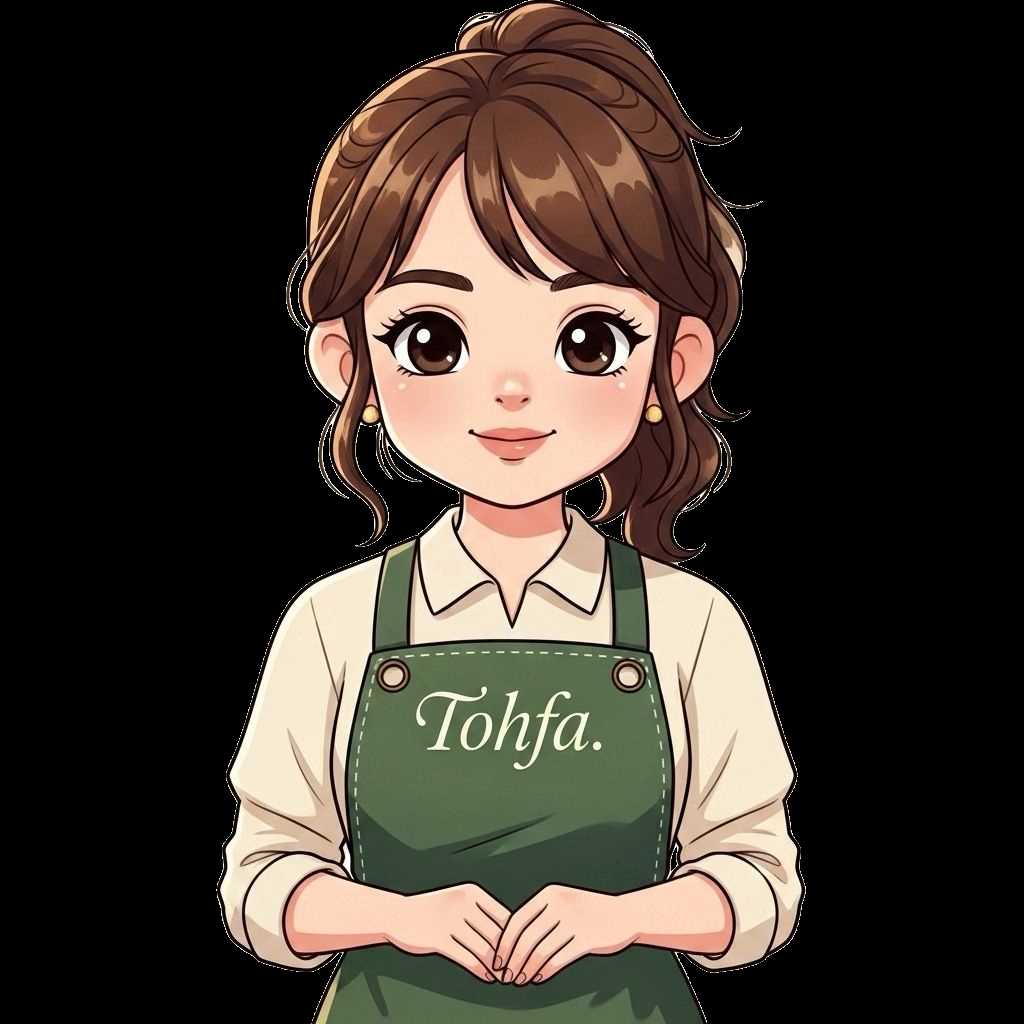
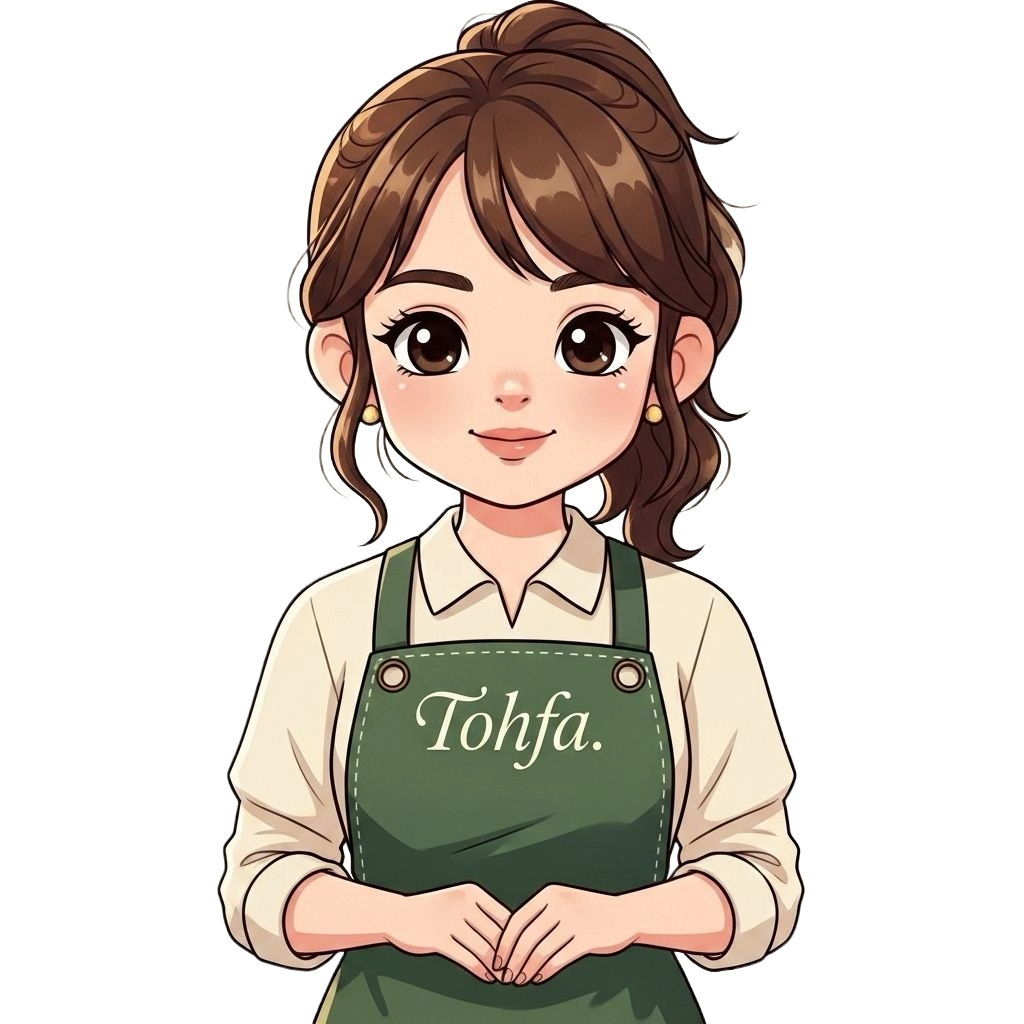
Fix mascot transparency background and resolve double injection layout bug

diff --git a/frontend/src/components/ProtectedRoute.js b/frontend/src/components/ProtectedRoute.js
@@ -187,7 +187,8 @@
     }
 
     // 3. Inject Mascot FAB chatbot trigger globally for buyer pages (except chat.html itself)
-    if (path.includes('/buyer/') && !path.endsWith('/chat.html') && !document.getElementById('tohfa-mascot-fab')) {
+    if (path.includes('/buyer/') && !path.endsWith('/chat.html') && !document.getElementById('tohfa-mascot-fab') && !window.__mascotFabInjected) {
+      window.__mascotFabInjected = true;
       const mascotFab = document.createElement('div');
       mascotFab.id = 'tohfa-mascot-fab';
       mascotFab.className = 'mascot-fab';
@@ -209,10 +210,12 @@
           cursor: pointer;
           width: clamp(56px, 14vw, 80px);
           height: clamp(56px, 14vw, 80px);
-          border-radius: 50%;
-          overflow: visible;
-          background: transparent;
-          border: none;
+          background: transparent !important;
+          background-color: transparent !important;
+          border: none !important;
+          box-shadow: none !important;
+          border-radius: 0 !important;
+          overflow: visible !important;
           padding: 0;
           transition: transform 0.2s ease;
         }
@@ -230,8 +233,11 @@
           height: 100%;
           object-fit: contain;
           object-position: bottom center;
+          background: transparent !important;
+          background-color: transparent !important;
+          border-radius: 0 !important;
+          mix-blend-mode: normal;
           filter: drop-shadow(0 4px 12px rgba(0, 0, 0, 0.15));
-          background: transparent;
         }
 
         @media (min-width: 768px) {
